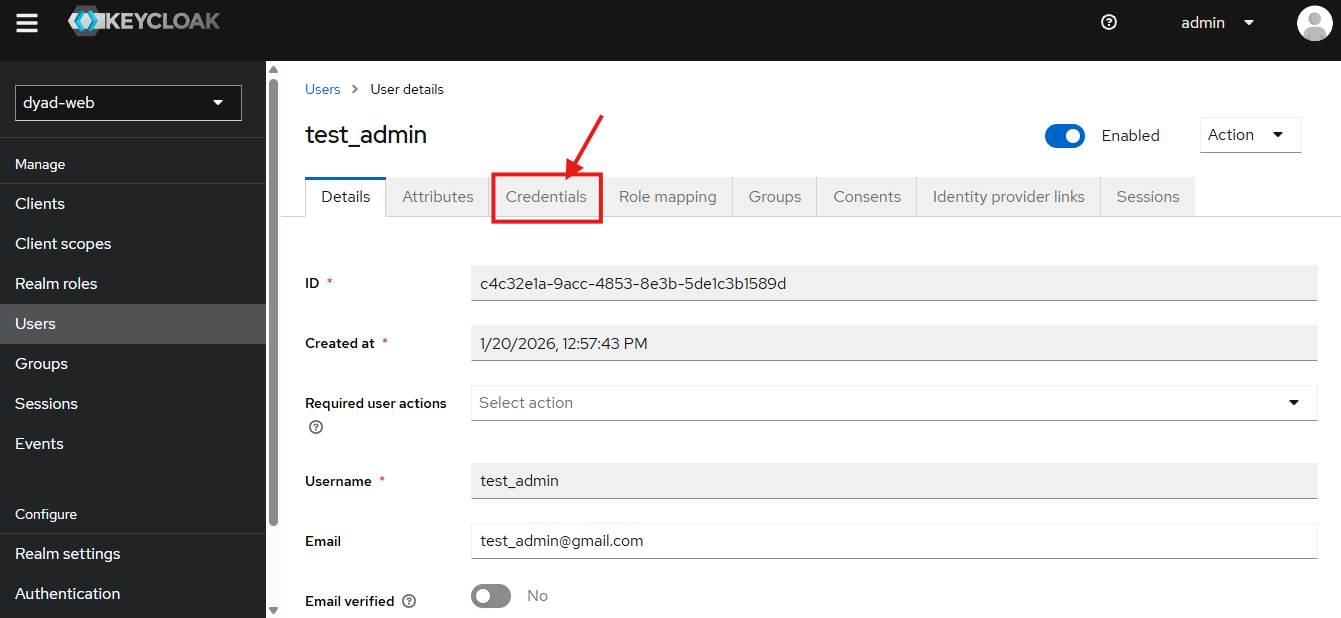
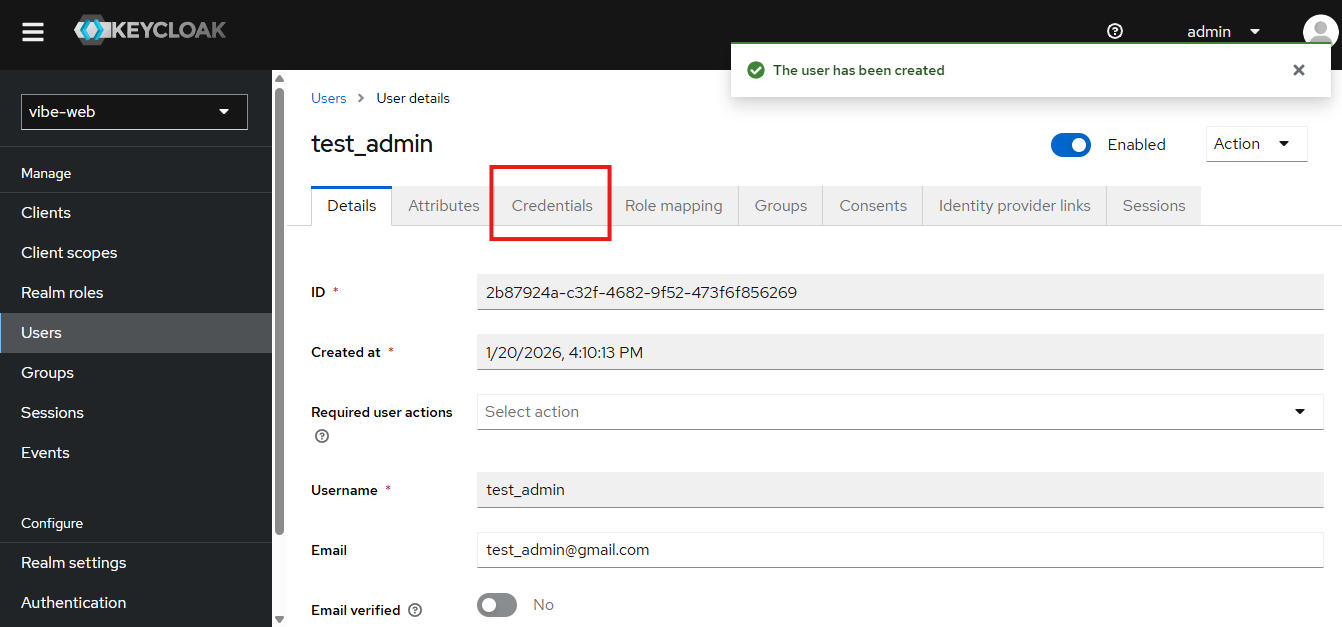
updated the documentation

diff --git a/GITHUB_INTEGRATION_GUIDE.md b/GITHUB_INTEGRATION_GUIDE.md
@@ -1,0 +1,73 @@
+# GitHub Integration Flow
+
+This document provides an overview of how to link an application to a GitHub repository and publish local updates to the remote repository.
+
+## Step 1: Publish Generated Code
+
+After generating the code, the interface will display a **Publish** option for pushing the code to GitHub. Select **Publish** to initiate the upload process.
+
+![Screenshot 1](./docs/images/git_flow_screenshot/Screenshot1.png)
+
+## Step 2: Connect to GitHub
+
+When you click **Publish** and there is no active GitHub connection, the UI will display a **Connect to GitHub** button. Click **Connect to GitHub** to initiate the connection process.
+
+![Screenshot 2](./docs/images/git_flow_screenshot/Screenshot2.png)
+
+## Step 3: Authorization Code and External Link
+
+When you select **Connect to GitHub**, the system generates an external authorization link along with a verification code. Copy the code and navigate to the external URL to complete the authorization process.
+
+![Screenshot 3](./docs/images/git_flow_screenshot/Screenshot3.png)
+
+## Step 4: Create or Connect to Repository
+
+After the authorization is complete, you will be presented with two options: **Create Repository** or **Connect to Existing Repository**. When creating a new repository, the system will prefill the repository name with the application name and set the default branch to **main**. You may update both values as needed, then click on **Create Repo**.
+
+![Screenshot 4](./docs/images/git_flow_screenshot/Screenshot4.png)
+
+## Step 5: Code Pushed to GitHub
+
+Once you select **Create Repo**, the application automatically pushes the generated code to GitHub. The **Publish** panel will then display the linked repository and the branch currently in use.
+
+![Screenshot 5](./docs/images/git_flow_screenshot/Screenshot5.png)
+
+## Step 6: Sync New Changes
+
+When additional prompts generate new or updated files, you can push these changes to the connected repository by clicking the **Sync** option.
+
+![Screenshot 6](./docs/images/git_flow_screenshot/Screenshot6.png)
+
+## Step 7: Active GitHub Connection with New App
+
+When creating a new app while a GitHub connection is already active, the system skips the connection setup step. In the **Publish** panel, you will directly see the options to **Create Repo** or **Connect to Existing Repo**, without needing to authorize GitHub again.
+
+![Screenshot 7](./docs/images/git_flow_screenshot/Screenshot7.png)
+
+## Step 8: Connect to Existing Repository
+
+Upon selecting **Connect to Existing Repo**, the system will populate the **Select Repository** dropdown with all repositories associated with your GitHub account, as well as their corresponding branches. Choose the appropriate repository and branch to complete the connection process and click on **Connect to Repo**.
+
+![Screenshot 8](./docs/images/git_flow_screenshot/Screenshot8.png)
+
+## Step 9: Force Push if Needed
+
+Once you select **Connect**, the system compares the current project files with the contents of the target repository. If they do not match, you will be prompted for a **Force Push**, as a standard fast-forward push is not possible. Select **Force Push** to replace the repository's existing code with the newly generated version.
+
+![Screenshot 9.1](./docs/images/git_flow_screenshot/Screenshot9.1.png)
+
+![Screenshot 9.2](./docs/images/git_flow_screenshot/Screenshot9.2.png)
+
+## Step 10: Disconnect from GitHub
+
+To remove an existing GitHub integration, navigate to any application and open the **Publish** section. When an active connection is present, it will be shown as **Connected to GitHub Repo**. Select **Disconnect from Repo** to terminate the current GitHub connection and again it will ask us to go through the authorization process of **Connect to GitHub**.
+
+![Screenshot 10.1](./docs/images/git_flow_screenshot/Screenshot10.1.png)
+
+![Screenshot 10.2](./docs/images/git_flow_screenshot/Screenshot10.2.png)
+
+## Step 11: GitHub Operations from Apps Section
+
+GitHub operations are not limited to the **Publish** section. By navigating to **Apps** and selecting an existing application, you will find the same GitHub integration options, allowing you to perform all required actions directly from the app's details page.
+
+![Screenshot 11](./docs/images/git_flow_screenshot/Screenshot11.png)

diff --git a/KEYCLOAK_SETUP.md b/KEYCLOAK_SETUP.md
@@ -8,15 +8,15 @@ Below are the data we need in `.env` file:
 
 ```
 KEYCLOAK_URL=http://localhost:8080/
-KEYCLOAK_REALM=dyad-web
-KEYCLOAK_CLIENT_ID=dyad-backend
+KEYCLOAK_REALM=vibe-web
+KEYCLOAK_CLIENT_ID=vibe-backend
 KEYCLOAK_CLIENT_SECRET=2FHnvEuukzI2txq3HV2LxCtE4aiyyIpU
 KEYCLOAK_REDIRECT_URI=http://localhost:3001/api/auth/callback
 ```
 
 ## Step 2: Create Realm
 
-To create a realm (KEYCLOAK_REALM=dyad-web), click on **Create Realm** in the UI.
+To create a realm (KEYCLOAK_REALM=vibe-web), click on **Create Realm** in the UI.
 
 ![Screenshot 2.1](./docs/images/keycloak_screenshot/Screenshot2.1.png)
 
